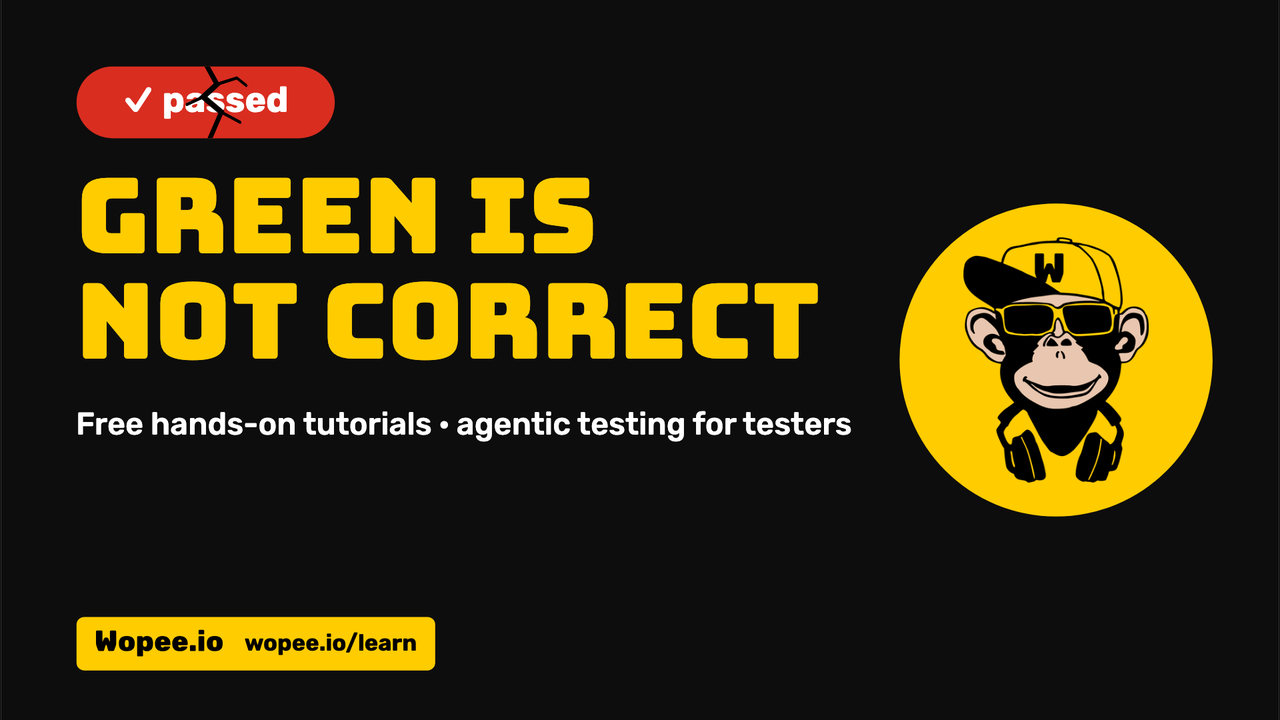
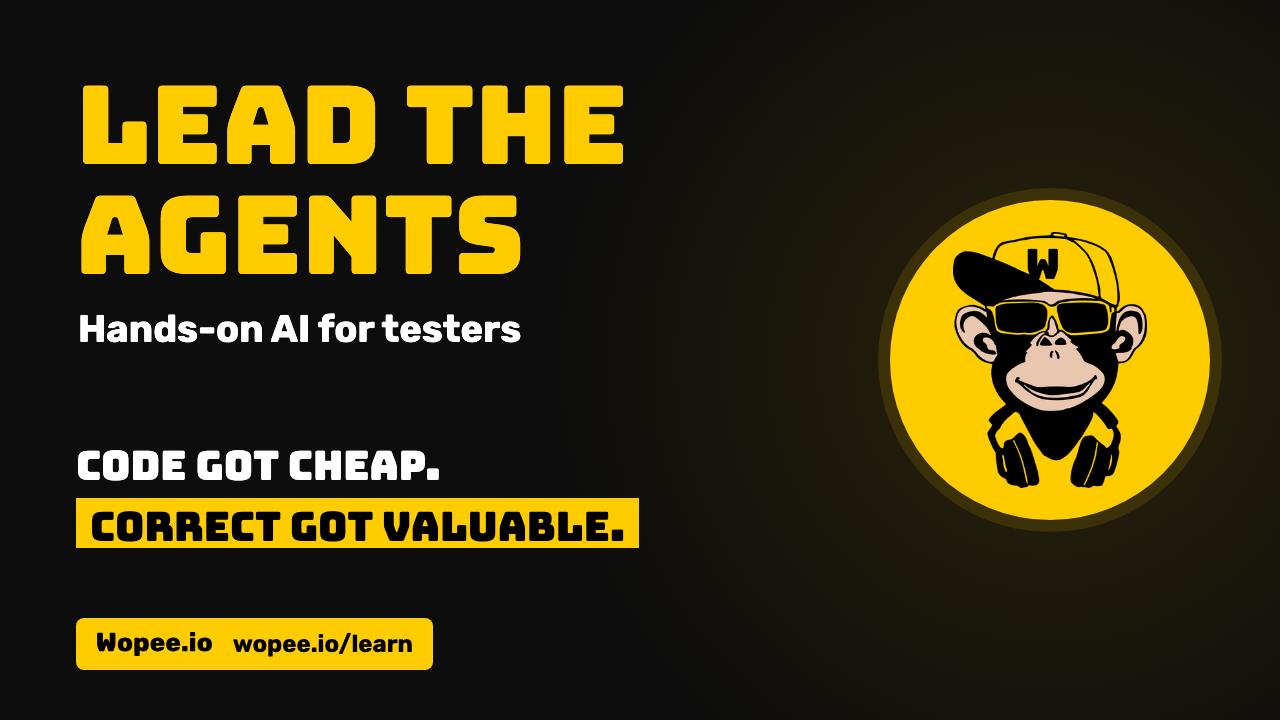
feat(learn): rename the series to Lead the Agents (#317)
* feat(learn): rename the series to Lead the Agents

The free tutorial series is now "Lead the Agents", subtitle "Hands-on AI
for testers". The branded video placeholder (wordmark + aria-label) and
the Bungee font comment use the new name.

* feat(learn): re-render the /learn OG image and intro poster as Lead the Agents

diff --git a/src/components/learn/VideoBlock.tsx b/src/components/learn/VideoBlock.tsx
@@ -87,13 +87,14 @@ const Placeholder = () => (
   <div
     className="absolute inset-0 flex flex-col items-center justify-center gap-4 sm:gap-6 bg-[#0d0d0d] px-6 text-center"
     role="img"
-    aria-label="Green Is Not Correct, video poster"
+    aria-label="Lead the Agents: Hands-on AI for testers, video poster"
   >
     <span
       style={{ fontFamily: 'Bungee, "Arial Black", sans-serif' }}
       className="text-3xl sm:text-5xl uppercase leading-none text-primary-wopee"
     >
-      Green is not correct
+      Lead the Agents
     </span>
+    <span className="text-base sm:text-xl font-semibold text-white">Hands-on AI for testers</span>
   </div>
 );

diff --git a/src/css/custom.css b/src/css/custom.css
@@ -779,7 +779,7 @@ a.navbar__item:hover {
   }
 }
 
-/* /learn series wordmark: Bungee subset (A–Z, 0–9), only for "Green Is Not Correct" and episode tags. */
+/* /learn series wordmark: Bungee subset (A–Z, 0–9), only for "Lead the Agents" and episode tags. */
 @font-face {
   font-family: "Bungee";
   src: url("/fonts/bungee-subset.woff") format("woff");
